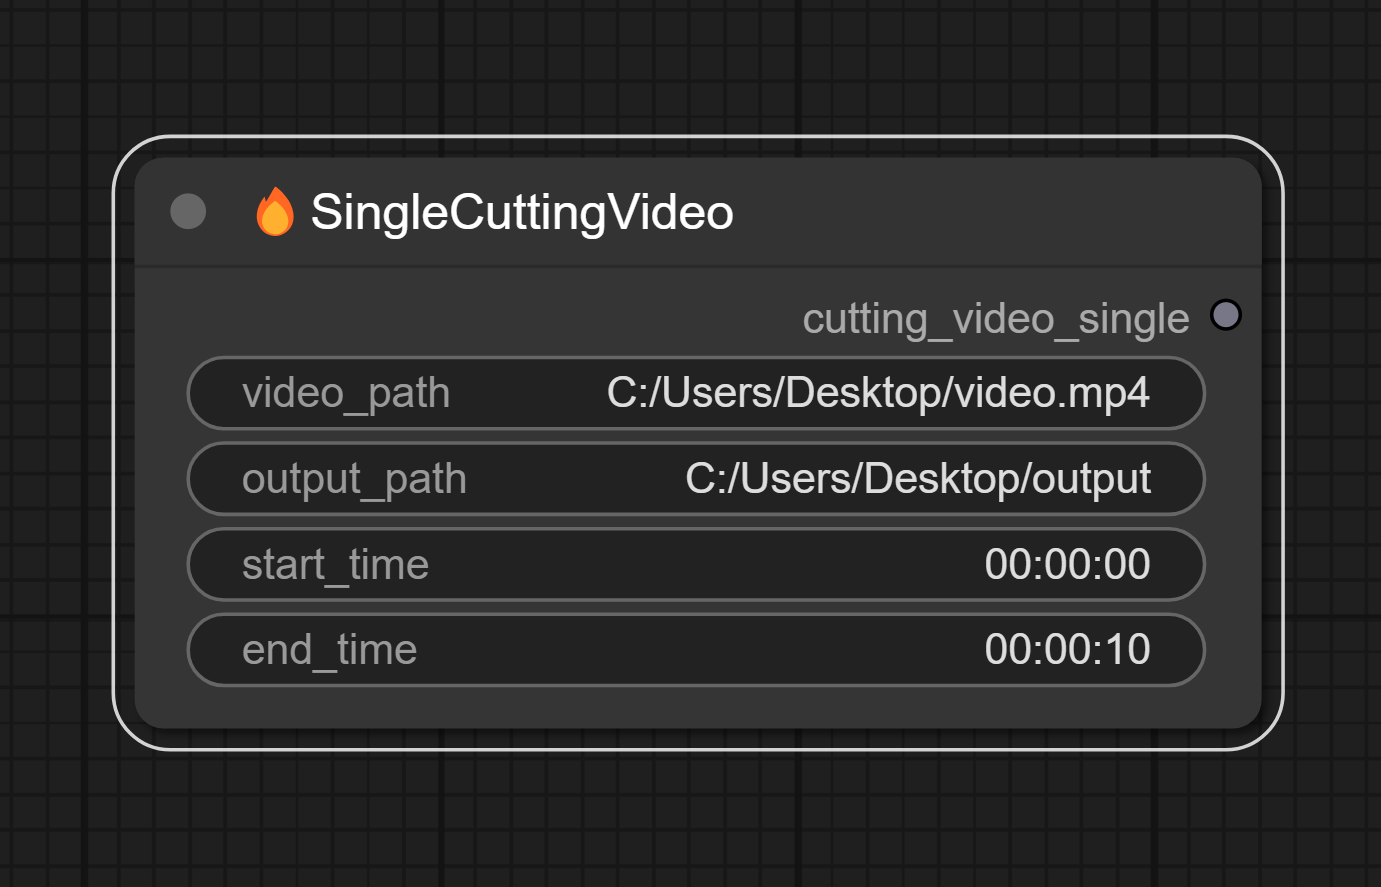
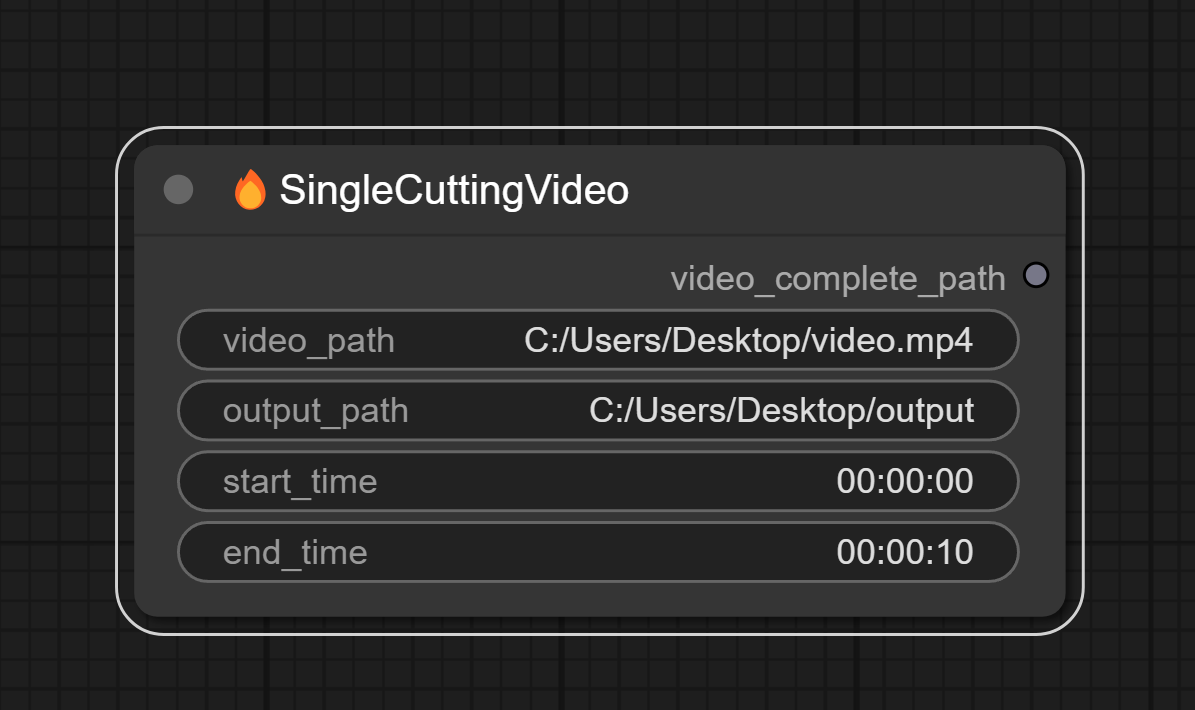
update

Changed region(s): [[0.0619, 0.1239, 0.9289, 0.8986]]

diff --git a/nodes/singleCuttingVideo.py b/nodes/singleCuttingVideo.py
@@ -19,7 +19,7 @@ class SingleCuttingVideo:
         }
 
     RETURN_TYPES = ("STRING",)
-    RETURN_NAMES = ("cutting_video_single",)
+    RETURN_NAMES = ("video_complete_path",)
     FUNCTION = "single_cutting_video"
     OUTPUT_NODE = True
     CATEGORY = "🔥FFmpeg"
